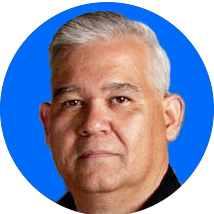
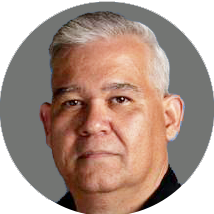
members section images fixed

Changed region(s): [[0.0, 0.0, 1.0, 0.9533]]

diff --git a/css/style.css b/css/style.css
@@ -117,7 +117,7 @@ h3:after {
 
 h1{ /*text over main image */
     position: absolute; 
-   	top: 43%; 
+   	top: 40%; 
    	left: 10%;
    	width: 100%;
    	color:#ffffff;
@@ -163,7 +163,7 @@ h4{	/*subtitles */
 h4 span{
     color:#ab1a1a;
     top: 0;
-    font-weight: 200;
+    font-weight: 400;
     font-size: 90%;
 }
 
